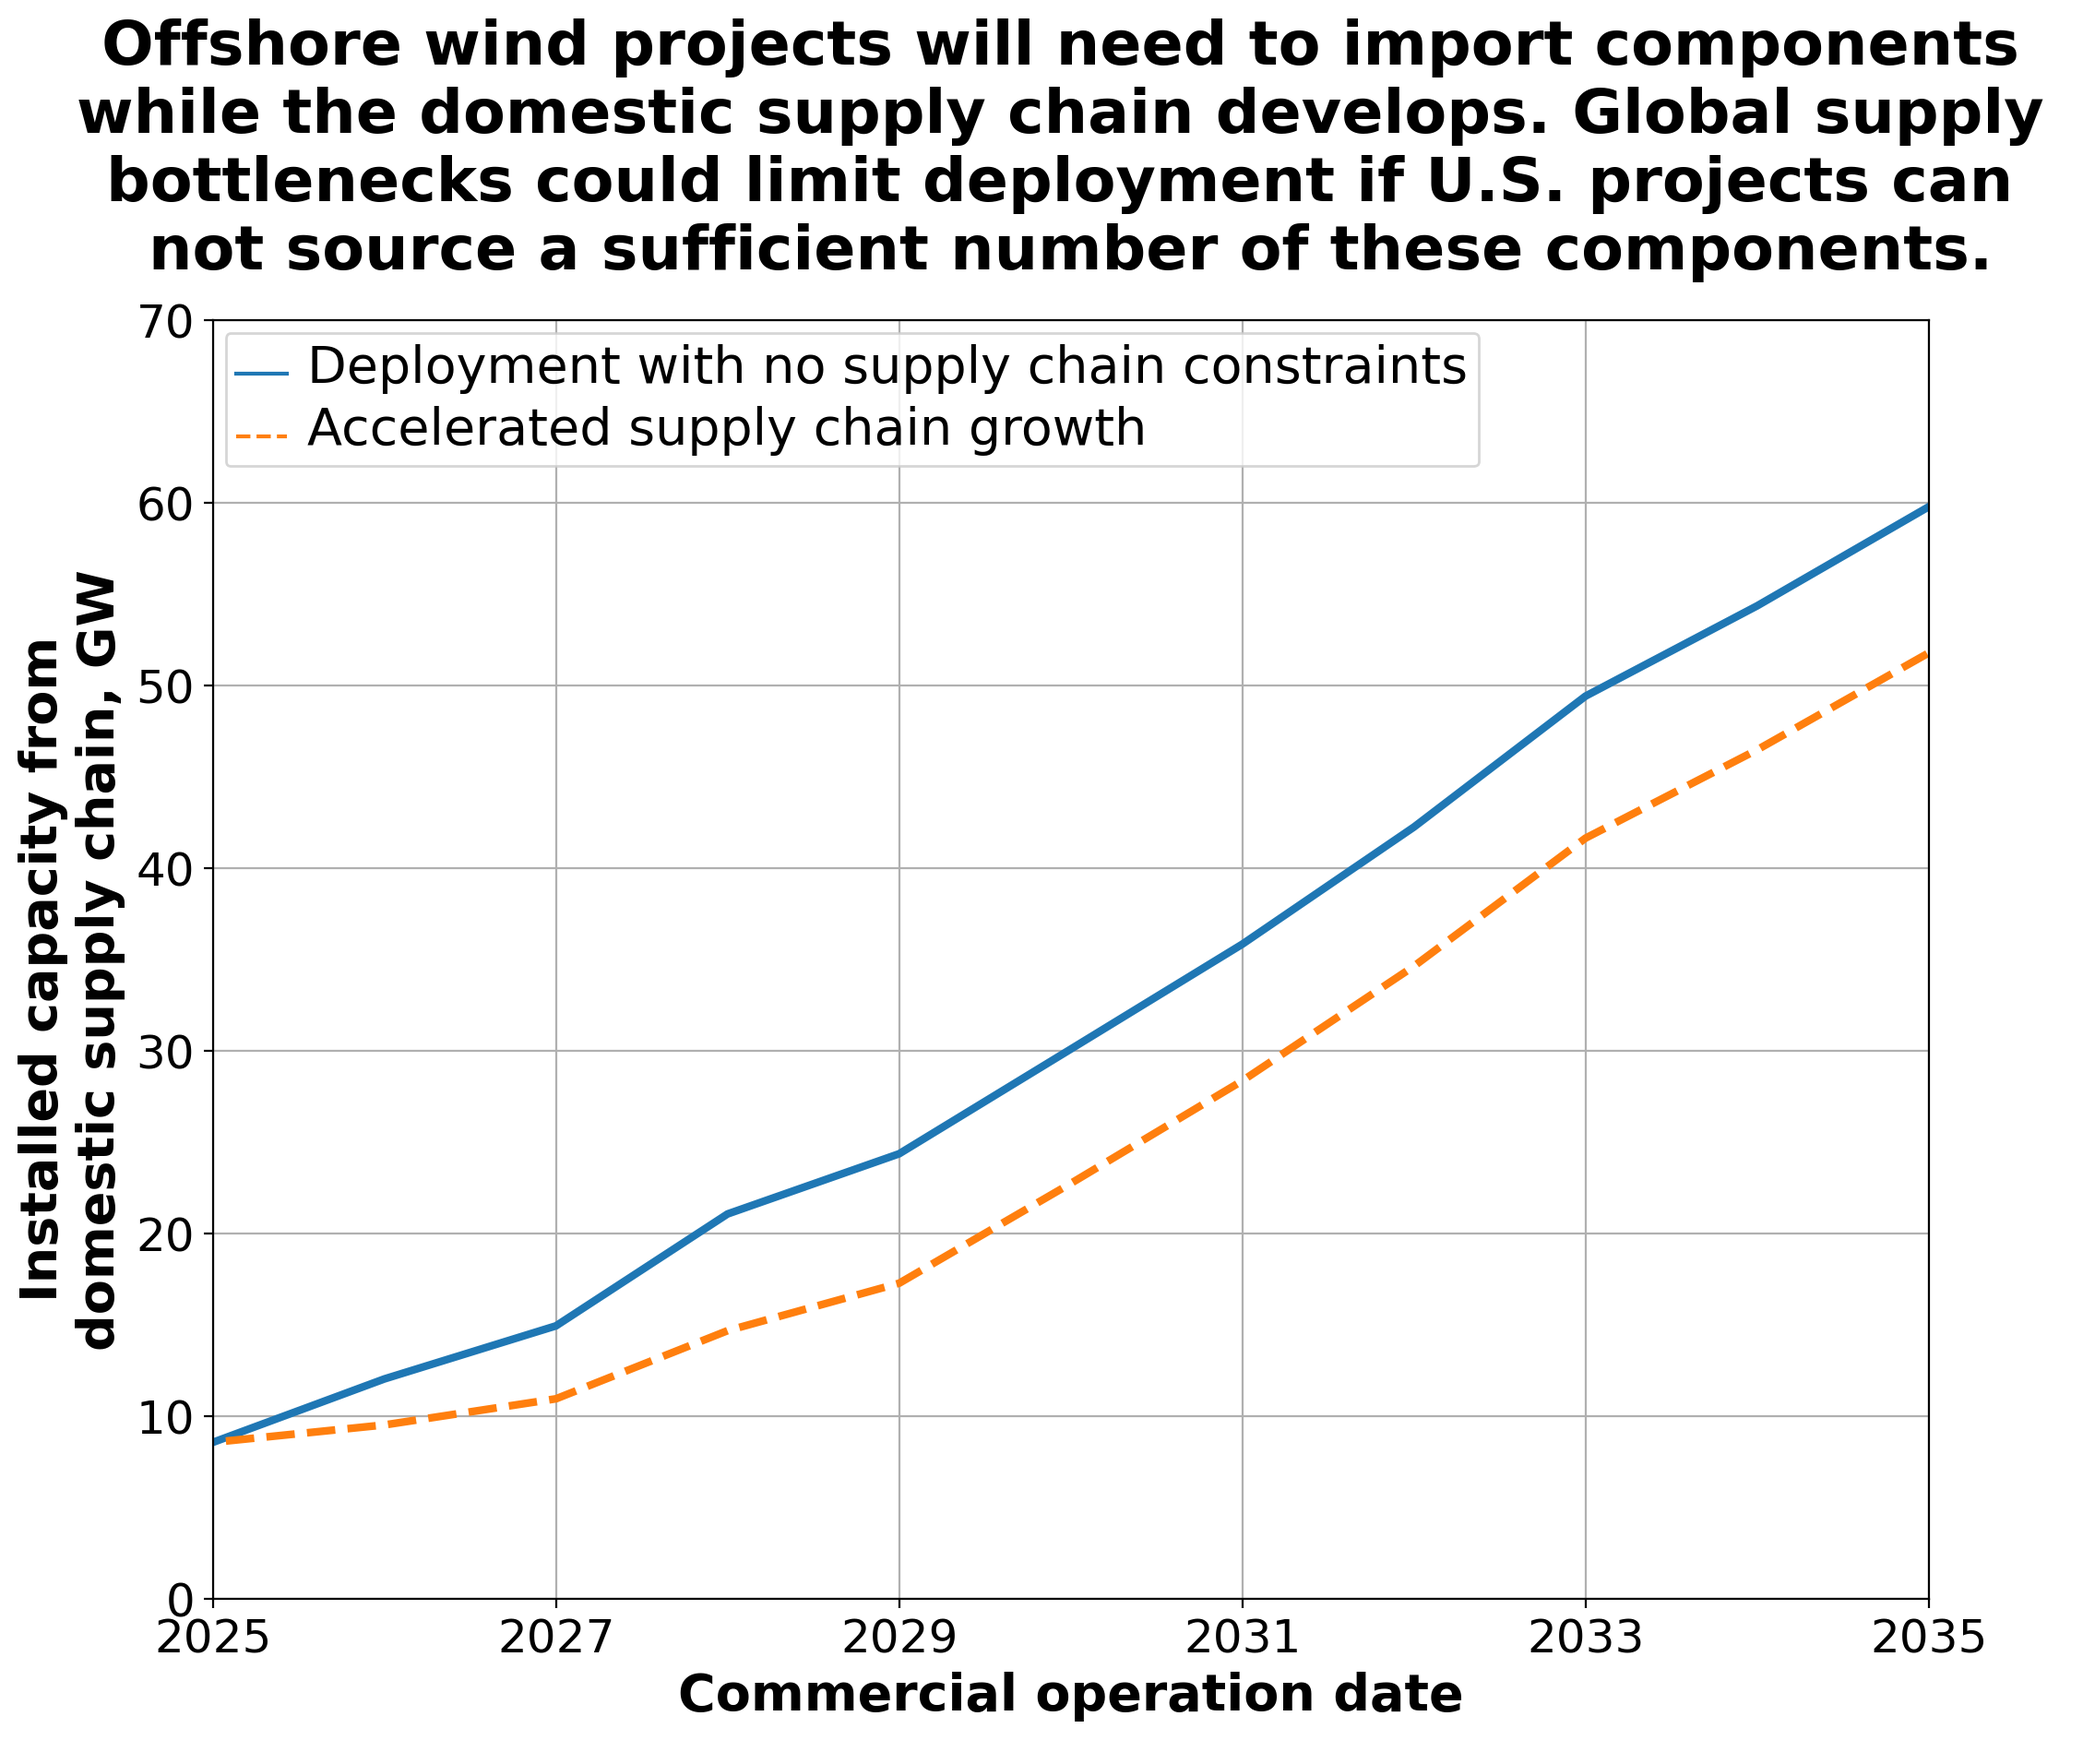
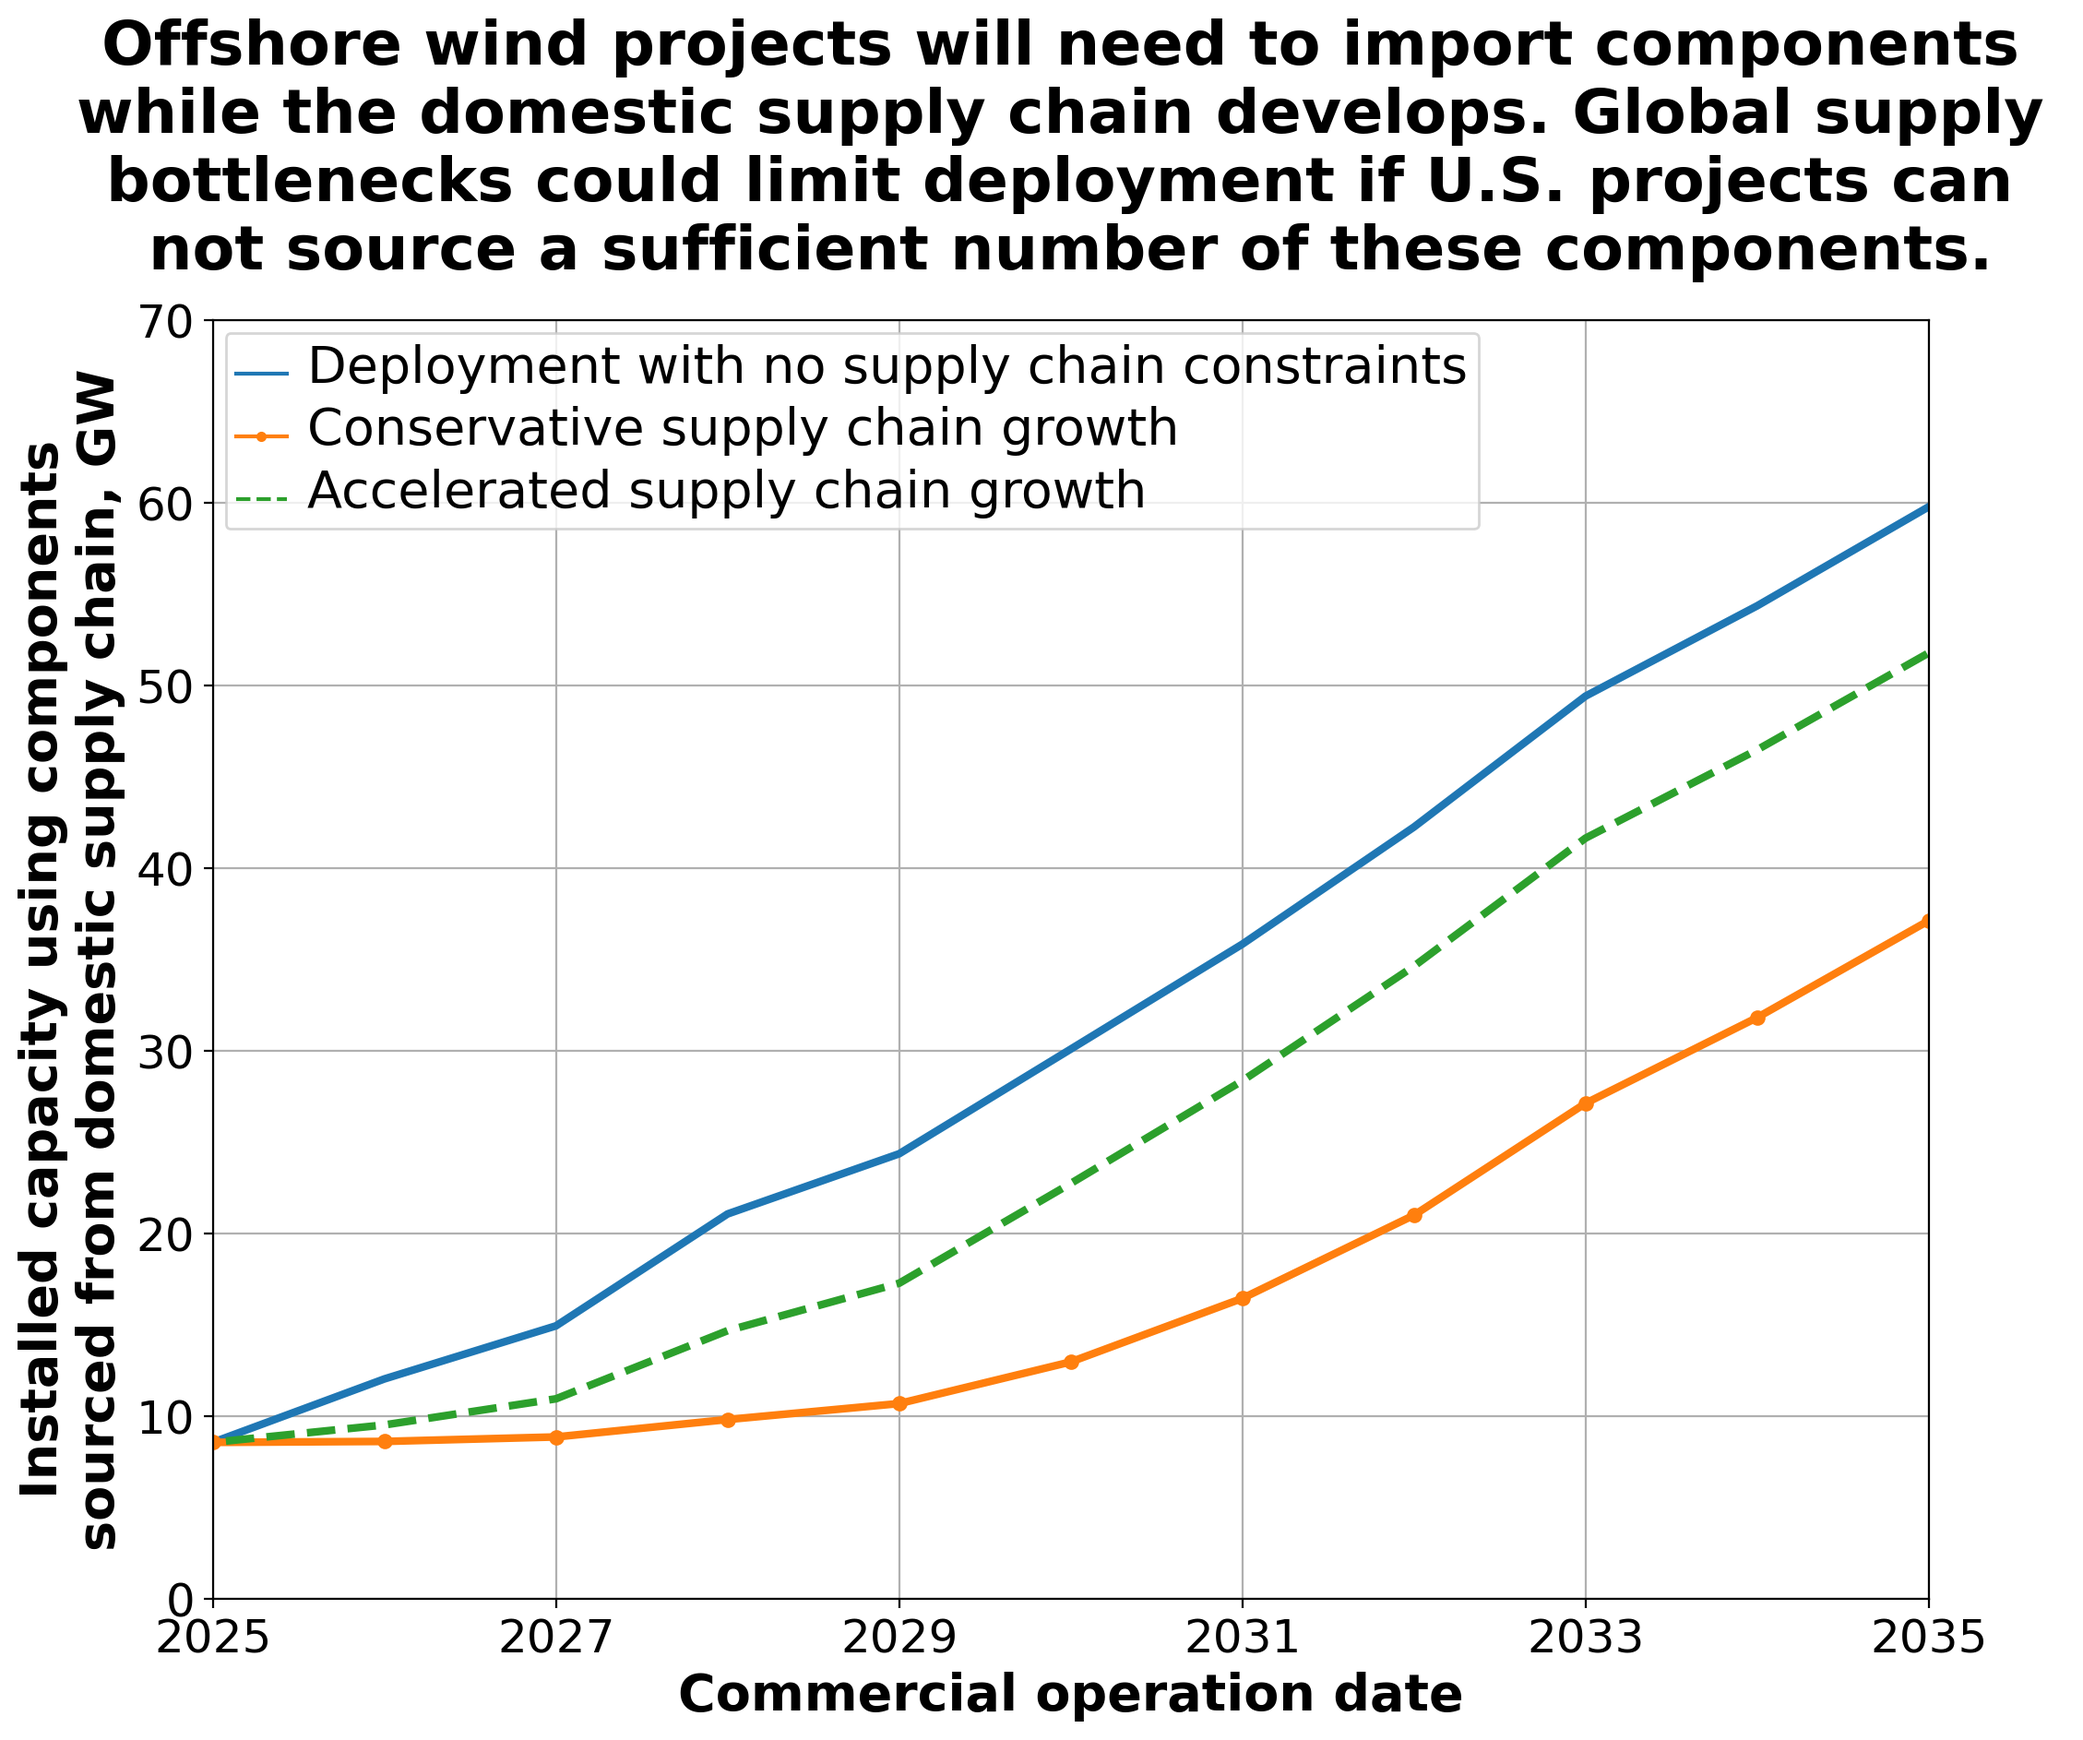
Update labels for deployment constraints plot

diff --git a/main.py b/main.py
@@ -10,15 +10,15 @@ from analysis import scenario_analysis as sa
 from plot_routines import lineplot_comp
 
 scenarios = {
-# 'Conservative': {
-# 'filepath_ports': "fabrication_ports/ports_scenario_max.xlsx",
-# 'legend': 'Conservative supply chain growth',
-# 'linetype': '.-'
-# },
-'Accelerated': {
-'filepath_ports': "fabrication_ports/ports_scenario_min.xlsx",
-'legend': 'Accelerated supply chain growth',
-'linetype': '--'
+    'Conservative': {
+    'filepath_ports': "fabrication_ports/ports_scenario_max.xlsx",
+    'legend': 'Conservative supply chain growth',
+    'linetype': '.-'
+    },
+    'Accelerated': {
+    'filepath_ports': "fabrication_ports/ports_scenario_min.xlsx",
+    'legend': 'Accelerated supply chain growth',
+    'linetype': '--'
 },
 # 'Aggressive': {
 # 'filepath_ports': "fabrication_ports/ports_scenario_aggressive.xlsx",
@@ -85,4 +85,4 @@ if __name__ == "__main__":
 
     # Inter-scenario results and plots
     lineplot_comp(mnf_years, domestic_sc_percent_scenarios, legend[1:], linetype[1:], xlabel='Manufacturing date', ylabel='Manufacturing capacity (% of demand)', xlim = [2020, 2034], ylim = [0, 110], fname='results/domestic_percent')
-    lineplot_comp(cod_years, deploy_scenarios, legend, linetype, xlabel='Commercial operation date', ylabel='Installed capacity from \ndomestic supply chain, GW', xlim = [2025, 2035], ylim = [0, 70], fname='results/deployment_impact', title='Offshore wind projects will need to import components \nwhile the domestic supply chain develops. Global supply \nbottlenecks could limit deployment if U.S. projects can \nnot source a sufficient number of these components.')
+    lineplot_comp(cod_years, deploy_scenarios, legend, linetype, xlabel='Commercial operation date', ylabel='Installed capacity using components \nsourced from domestic supply chain, GW', xlim = [2025, 2035], ylim = [0, 70], fname='results/deployment_impact', title='Offshore wind projects will need to import components \nwhile the domestic supply chain develops. Global supply \nbottlenecks could limit deployment if U.S. projects can \nnot source a sufficient number of these components.')
